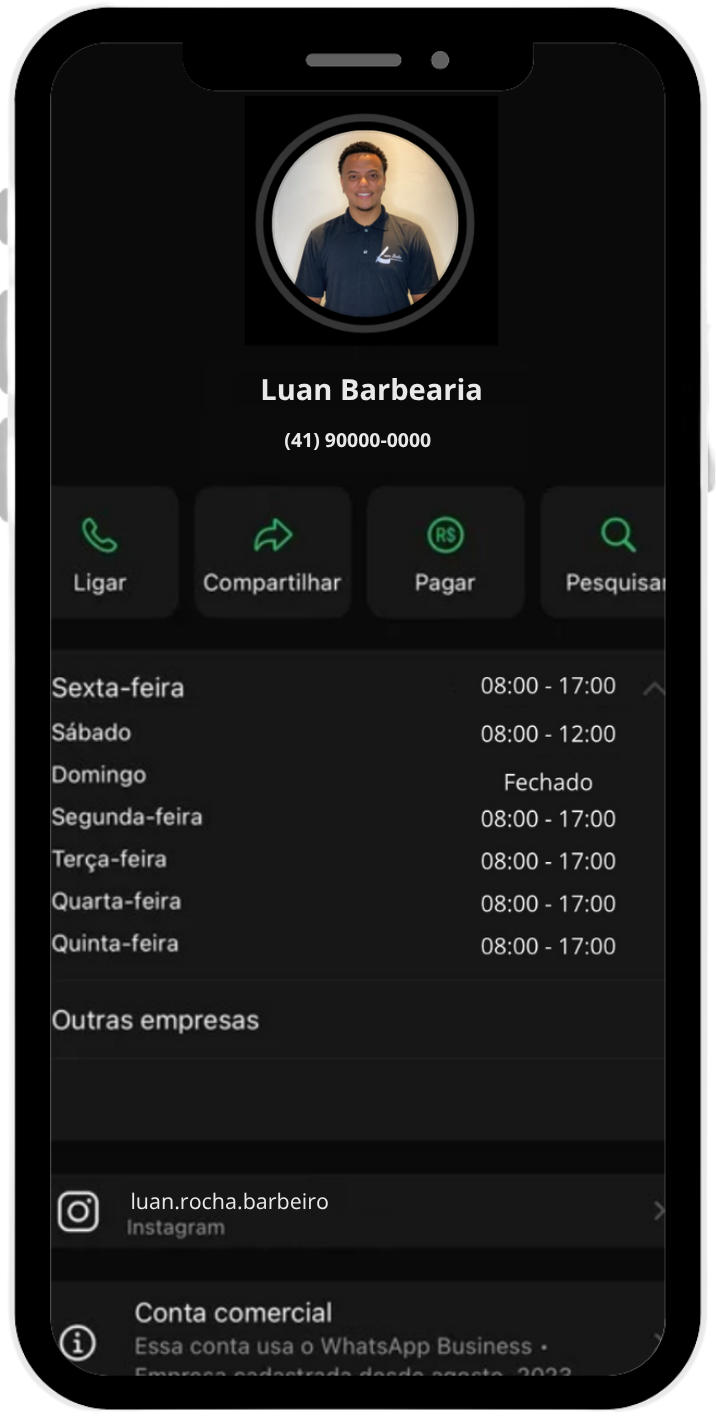
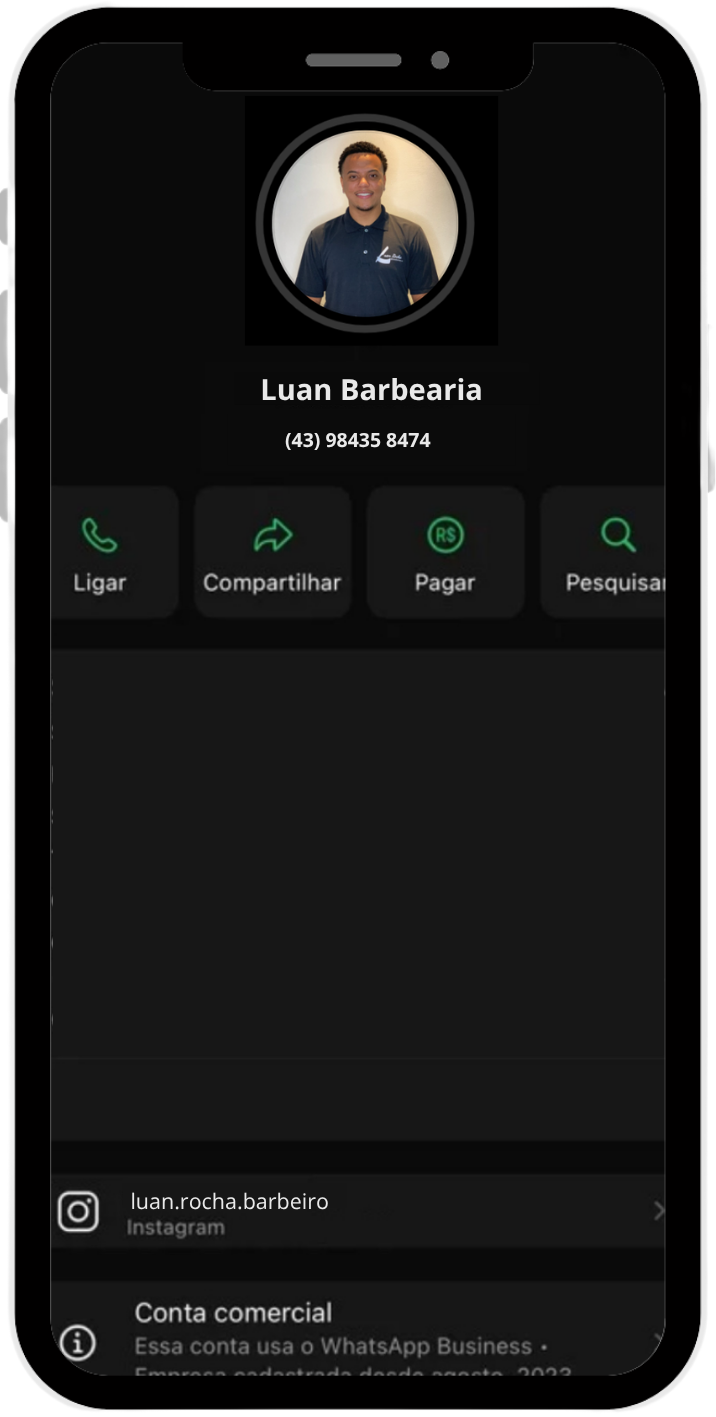
Atualização 1.0.3

diff --git a/index.html b/index.html
@@ -41,17 +41,15 @@ Quer dar um tapa no visual, trocar uma ideia e sair de lá se sentindo outro? Co
 <div class="SERVICOS">
 
 <ul class="li">
-  <li>Hidratação – R$ 25,00</li>
-  <li>Freestyle – R$ 50,00</li>
-  <li>Degradê – R$ 35,00</li>
-  <li>Social – R$ 30,00</li>
-  <li>Desenho – R$ 20,00 (Adicional)</li>
-  <li>Kids – R$ 25,00</li>
-  <li>Militar – R$ 28,00</li>
-  <li>Taper Fade – R$ 35,00</li>
-  <li>Barba por Fazer – R$ 20,00</li>
-  <li>Cavanhaque – R$ 20,00</li>
-  <li>Barba Cheia – R$ 30,00</li>
+  <li>Corte R$35,00</li>
+  <li>Barba R$35,00</li>
+  <li>Sobrancelha R$15,00</li>
+  <li>Corte e Sobrancelha R$45,00</li>
+  <li>Corte e Barba R$70,00</li>
+  <li>Corte, Barba e Sobrancelha R$80,00</li>
+  <li>Raspar o Cabelo R$20,00</li>
+  <li>Raspar a Barba R$20,00</li>
+  <li>Bigode e Cavanhaque R$15,00</li>
 </ul>
 </div>
 
@@ -104,7 +102,7 @@ Quer dar um tapa no visual, trocar uma ideia e sair de lá se sentindo outro? Co
 <div class="cel">
 <img src="Imgs/Luan Barbeari (2).png" class="INSTA">
 
-<a href="https://wa.me/5500000000000?text=Olá%2C%20gostaria%20de%20agendar%20um%20horário%20na%20barbearia!" target="_blank"><img src="Imgs/Whatss.png" class="logosins"></a>
+<a href="https://wa.me/5543984358474" target="_blank"><img src="Imgs/Whatss.png" class="logosins"></a>
 </div>
 </div>
 

diff --git a/style.css b/style.css
@@ -1,4 +1,4 @@
-*{
+    *{
     padding: 0;
     margin: 0;
     box-sizing: border-box;
